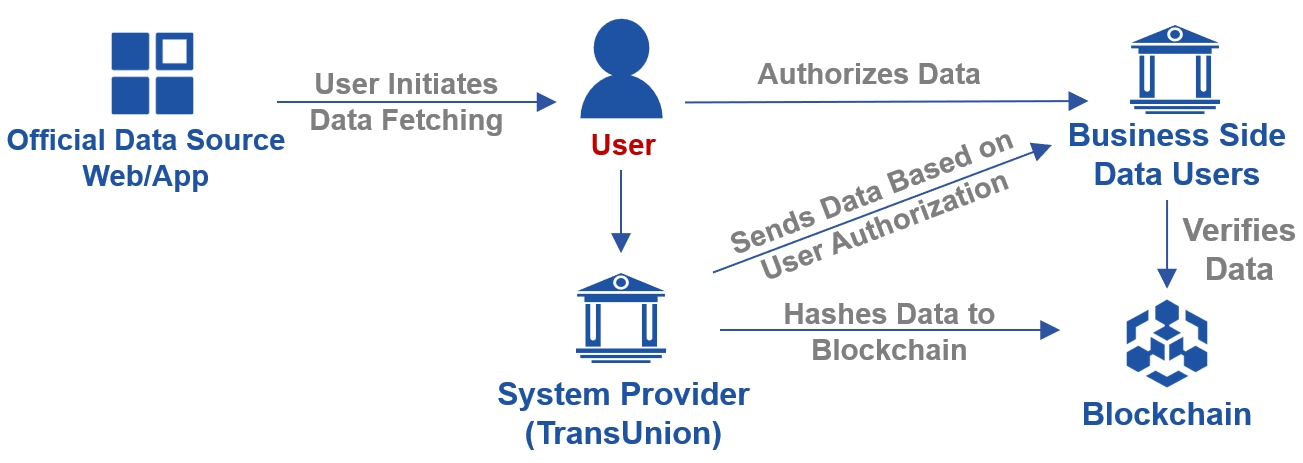
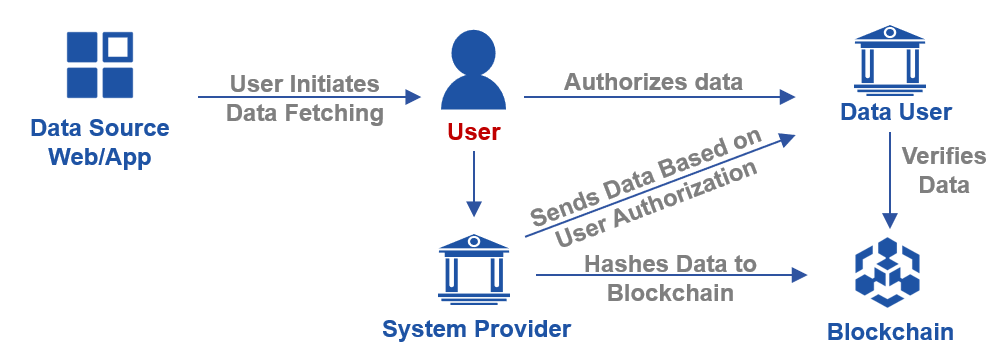
- Rename notations

Changed region(s): [[0.0, 0.0305, 1.0, 0.9751], [0.5849, 0.1219, 0.7696, 0.1828]]

diff --git a/README.md b/README.md
@@ -2,7 +2,7 @@
 
 Nowadays, it is difficult for individual users to effectively ensure the authenticity and trustworthiness of their provided data. To address this issue, we developed Data Express Chain, focusing on the portability of personal data in Fintech area. Users proactively and independently initiate personal data transfer process, including fetching and authorizing data to third party all by themselves. Afterwards, Data Express Chain incorporates blockchain technology to realize trustworthy and tamper-proof data verification. This process ensures the authenticity and reliability of data transfer among multiple organizations, and it aims to build a basic infrastructure for secure and trusted personal data exchange.
 
-![image](./en/1-1.jpg)
+![image](./en/1-1.png)
 
 ## Terminology
 
